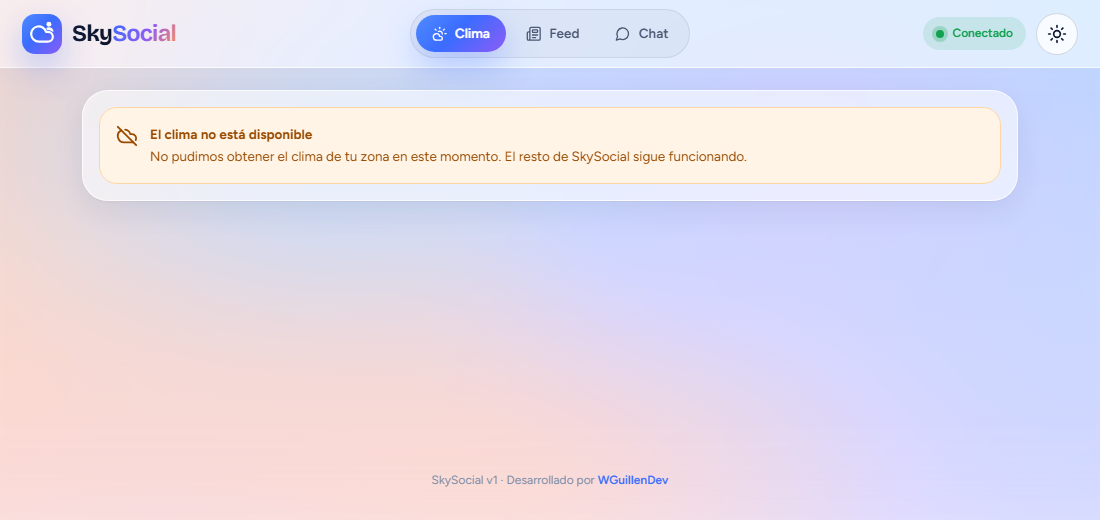
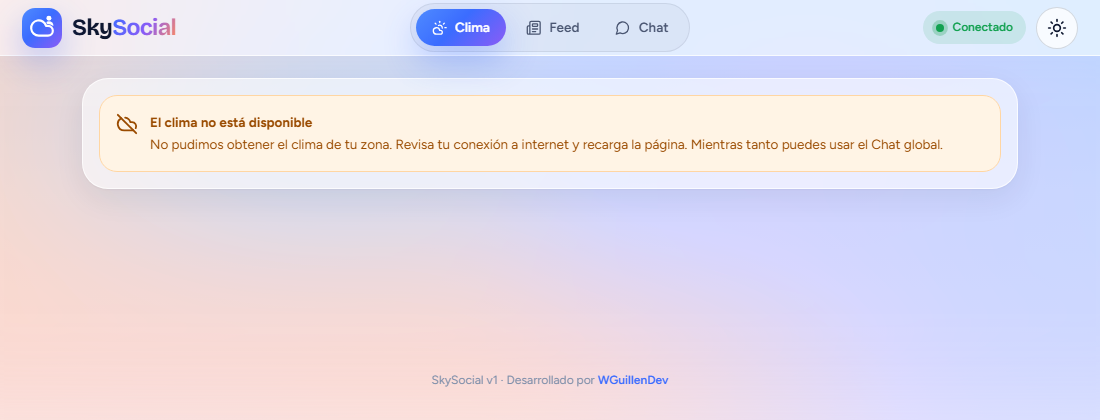
fix(proyecto1): clarify error messages and offline notice in chat

diff --git a/Proyecto1-SkySocial/src/client/main.ts b/Proyecto1-SkySocial/src/client/main.ts
@@ -76,13 +76,25 @@ function updateFeedCount(): void {
   feedCount.textContent = String(Number(feedCount.dataset.base ?? 0) + feedLive.childElementCount);
 }
 
-function renderSystem(text: string): void {
-  if (!list) return;
+function renderSystem(text: string): HTMLElement | null {
+  if (!list) return null;
   const notice = document.createElement('p');
   notice.className = 'chat__system';
   notice.textContent = text;
   list.append(notice);
   scrollToBottom();
+  return notice;
+}
+
+// Un solo aviso de desconexión, aunque se intente publicar varias veces; se quita al reconectar
+let offlineNotice: HTMLElement | null = null;
+
+function showOfflineNotice(): void {
+  if (offlineNotice?.isConnected) {
+    scrollToBottom();
+    return;
+  }
+  offlineNotice = renderSystem('No se pudo publicar: no hay conexión con el servidor. Tu texto se conserva y la conexión se reintenta sola.');
 }
 
 // Al conectar (o reconectar) se reemplaza la lista con el historial del servidor.
@@ -120,7 +132,10 @@ function connect(): void {
   const protocol = location.protocol === 'https:' ? 'wss' : 'ws';
   socket = new WebSocket(`${protocol}://${location.host}`);
 
-  socket.addEventListener('open', () => setStatus('online'));
+  socket.addEventListener('open', () => {
+    setStatus('online');
+    offlineNotice?.remove();
+  });
 
   socket.addEventListener('message', (event: MessageEvent<string>) => {
     try {
@@ -152,7 +167,7 @@ function publish(): void {
   if (!author || !content) return;
 
   if (socket?.readyState !== WebSocket.OPEN) {
-    renderSystem('Sin conexión con el servidor. Reintentando…');
+    showOfflineNotice();
     return;
   }
 

diff --git a/Proyecto1-SkySocial/src/services/weather.service.ts b/Proyecto1-SkySocial/src/services/weather.service.ts
@@ -34,6 +34,6 @@ export async function getWeather(location: Location): Promise<Weather> {
     };
   } catch (error) {
     console.error('Error al consultar Open-Meteo:', error instanceof Error ? error.message : error);
-    throw new Error('No pudimos obtener el clima de tu zona en este momento. El resto de SkySocial sigue funcionando.');
+    throw new Error('No pudimos obtener el clima de tu zona. Revisa tu conexión a internet y recarga la página. Mientras tanto puedes usar el Chat global.');
   }
 }

diff --git a/Proyecto1-SkySocial/src/services/posts.service.ts b/Proyecto1-SkySocial/src/services/posts.service.ts
@@ -17,7 +17,7 @@ function showOriginalText(): boolean {
   return process.env.FEED_ORIGINAL === 'true';
 }
 
-const FRIENDLY_ERROR = 'El servicio de publicaciones no respondió. Intenta recargar la página en unos minutos.';
+const FRIENDLY_ERROR = 'No pudimos cargar las publicaciones de la comunidad. Revisa tu conexión a internet y recarga la página. Mientras tanto puedes usar el Chat global.';
 
 export async function getPosts(): Promise<Post[]> {
   try {

diff --git a/Proyecto1-SkySocial/docs/manual-usuario.md b/Proyecto1-SkySocial/docs/manual-usuario.md
@@ -223,18 +223,22 @@ La aplicación se adapta a pantallas desde 320 px de ancho:
 
 ## 10. Cuando algo falla
 
-SkySocial sigue funcionando aunque un servicio externo no responda. El módulo afectado muestra un aviso y los demás continúan disponibles.
+SkySocial no se detiene aunque un servicio externo no responda. Cada módulo afectado (Clima o Feed) muestra un aviso con lo que ocurrió y qué hacer, y el **Chat global** sigue funcionando porque no depende de esos servicios.
 
 <p align="center">
   <img src="capturas/05-error.png" alt="Aviso amigable cuando el servicio del clima no está disponible" width="860">
 </p>
 
+<p align="center">
+  <img src="capturas/05-error-feed.png" alt="Aviso amigable cuando el feed no se puede cargar" width="860">
+</p>
+
 | Situación | Qué verás | Qué hacer |
 | --- | --- | --- |
-| No responde el servicio del clima | Aviso **"El clima no está disponible"** | Recargar la página en unos minutos. |
+| No responde el servicio del clima | Aviso **"El clima no está disponible"** | Revisar la conexión a internet y recargar la página. El Chat global sigue disponible. |
 | No se pudo detectar la ubicación | El clima de San Carlos, la ubicación de respaldo | Nada: es el comportamiento esperado. |
-| No responde el servicio de publicaciones | Aviso **"No pudimos cargar el feed"** | Recargar la página en unos minutos. El chat sigue funcionando. |
-| El indicador está en rojo | **Desconectado** y un aviso en el chat al intentar publicar | Comprobar que el servidor siga encendido. La página se reconecta sola. |
+| No responde el servicio de publicaciones | Aviso **"No pudimos cargar el feed"** | Revisar la conexión a internet y recargar la página. El Chat global sigue disponible. |
+| El indicador está en rojo | **Desconectado** y, al intentar publicar, el aviso *"No se pudo publicar: no hay conexión con el servidor"*. Tu texto se conserva. | Comprobar que el servidor siga encendido. La página se reconecta sola y el aviso desaparece cuando vuelve la conexión; entonces vuelve a presionar **Publicar**. |
 | El botón **Publicar** no envía | Falta el nombre o el texto | Completar ambos campos. |
 
 ---
